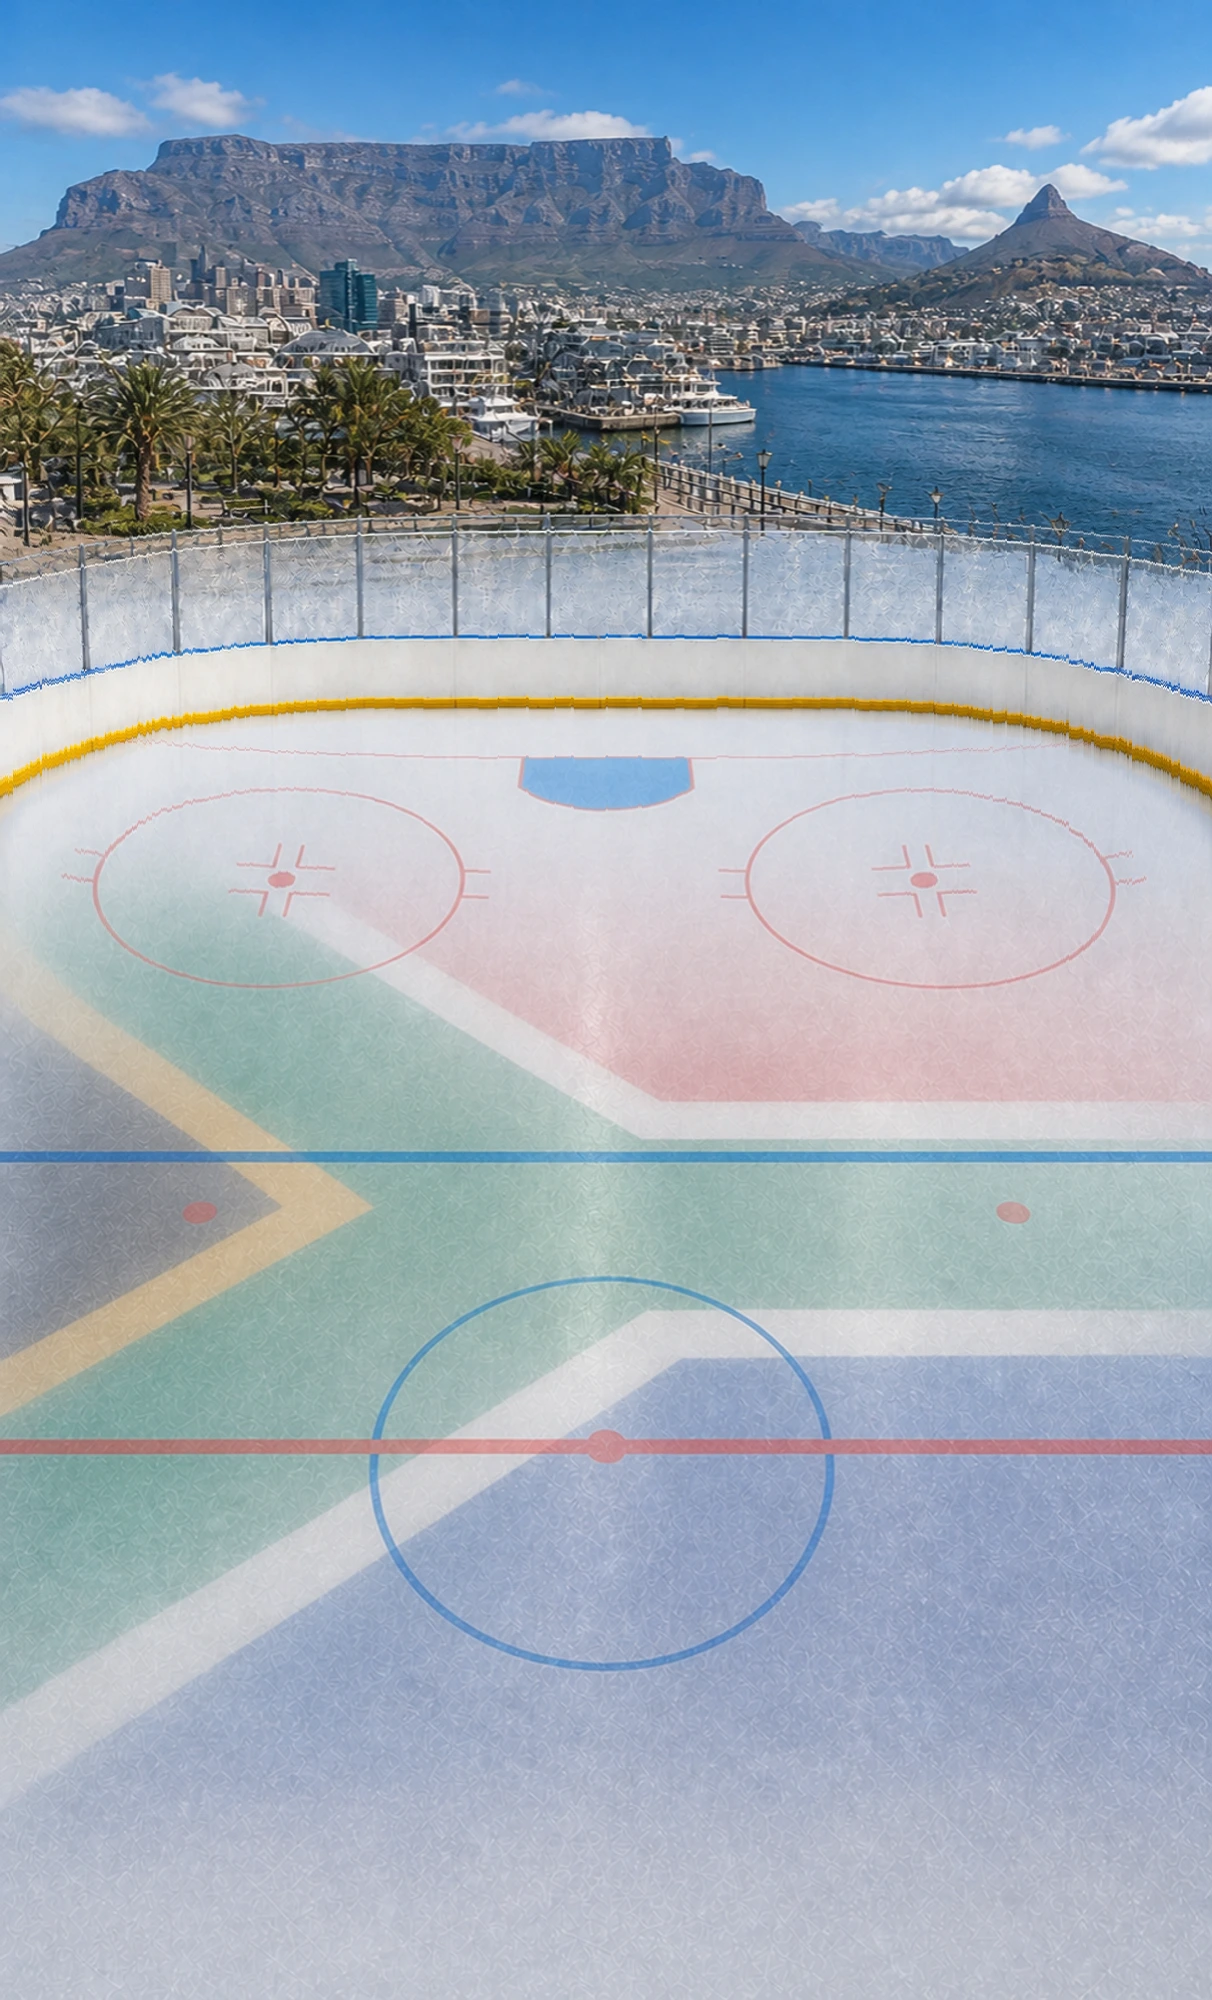
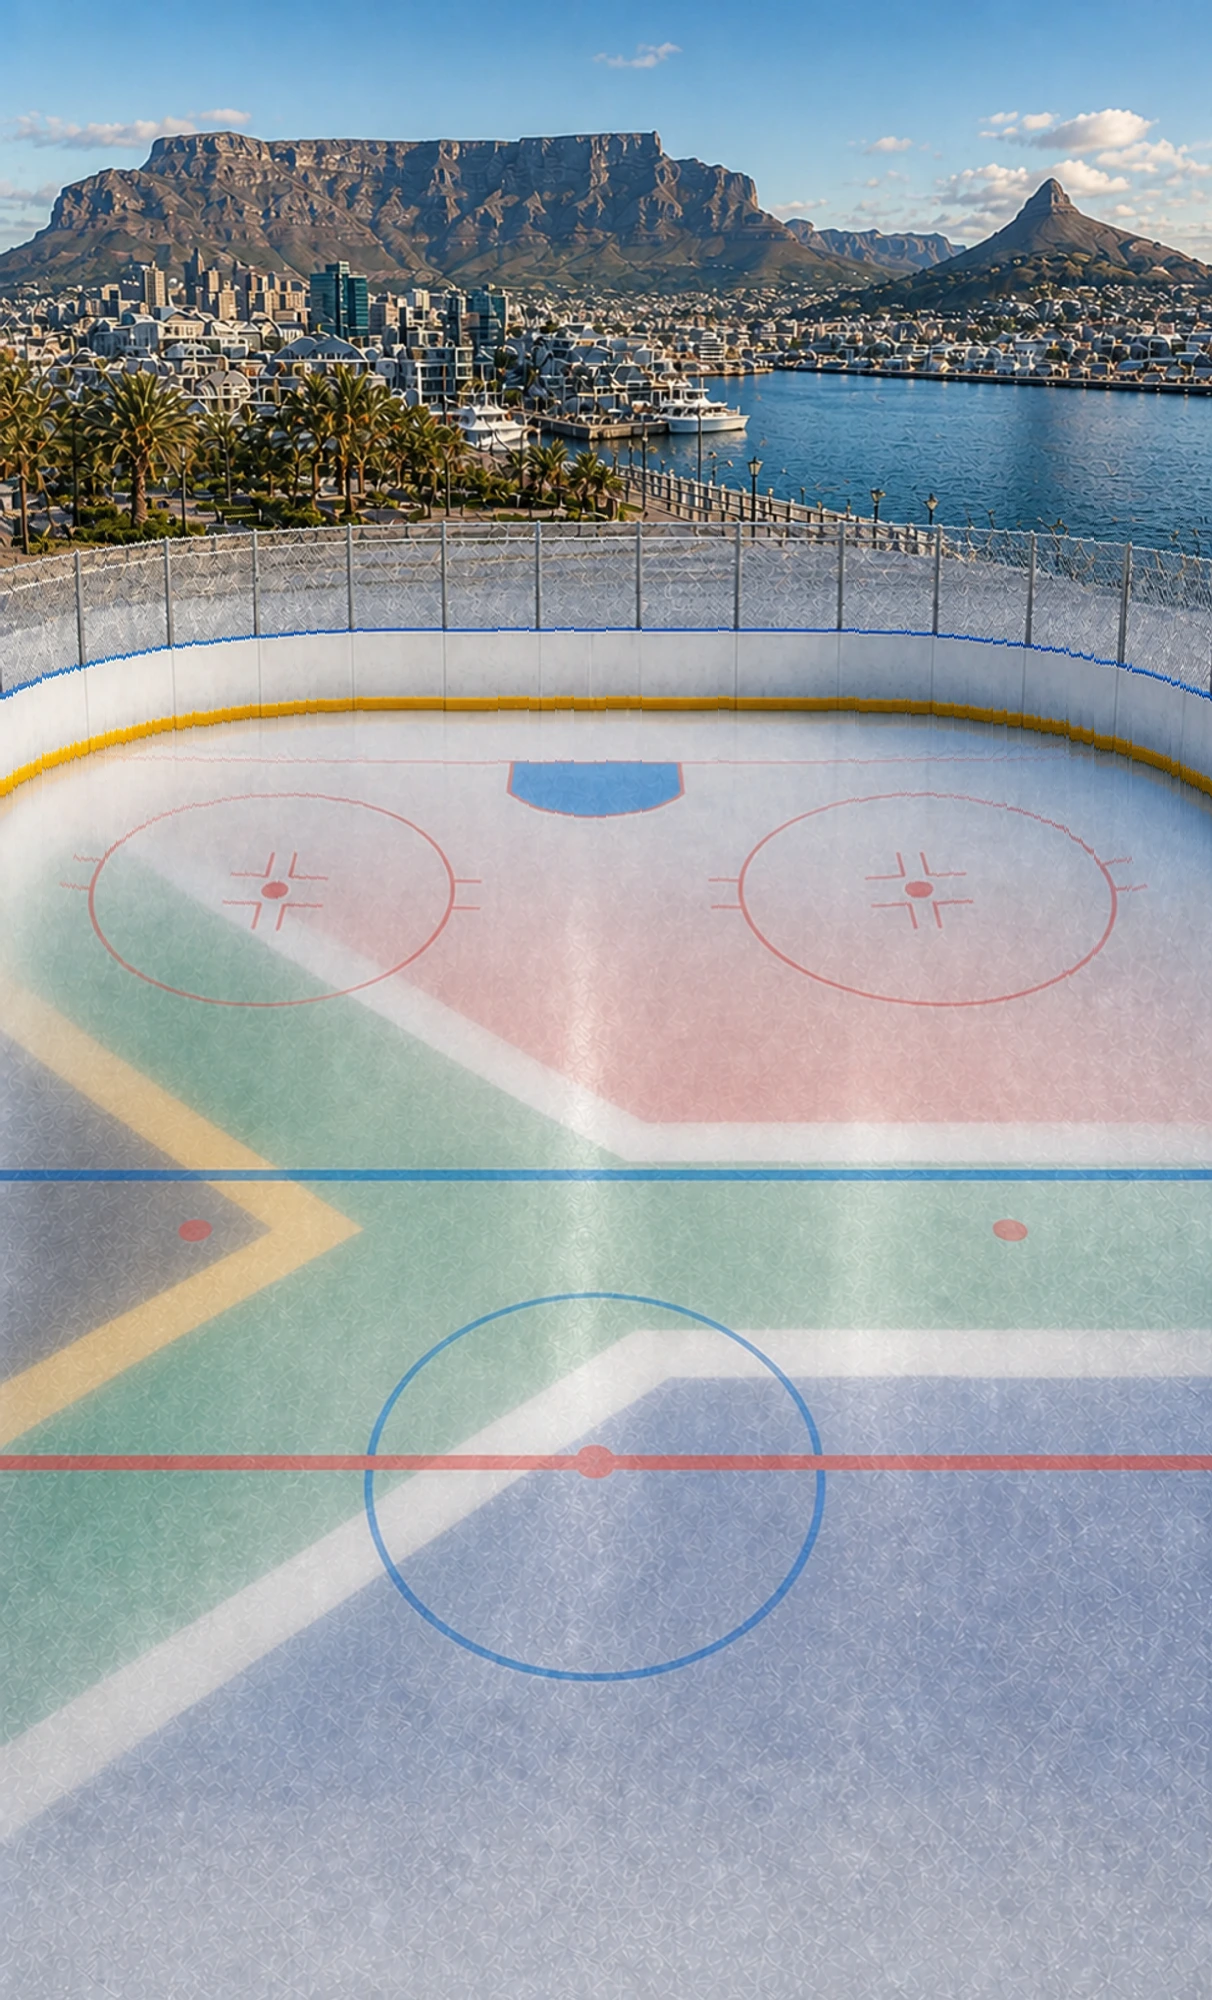
feat(bonus-games): regenerate World Tour arenas

diff --git a/packages/web/src/screens/BonusGamePlayScreen.test.tsx b/packages/web/src/screens/BonusGamePlayScreen.test.tsx
@@ -276,7 +276,7 @@ describe('BonusGamePlayScreen', () => {
     expect(screen.getByRole('heading', { name: 'Первая квалификация' })).toBeInTheDocument();
     expect(screen.getByRole('img', { name: 'Локация «Пляж» и её вратарь' })).toHaveAttribute(
       'src',
-      '/bonus-games/location-cards/beach.webp?v=20260828-world-tour-daily-board-v4',
+      '/bonus-games/location-cards/beach.webp?v=20260828-world-tour-regenerated-v5',
     );
     const qualification = screen.getByText('20 голов из 50 бросков');
     expect(qualification).toBeInTheDocument();
@@ -329,7 +329,7 @@ describe('BonusGamePlayScreen', () => {
 
     expect(screen.getByTestId('bonus-rink-background')).toHaveAttribute(
       'src',
-      '/bonus-games/arenas/beach.webp?v=20260828-world-tour-daily-board-v4',
+      '/bonus-games/arenas/beach.webp?v=20260828-world-tour-regenerated-v5',
     );
     const props = playViewProbe.mock.calls.at(-1)?.[0] as Record<string, unknown>;
     expect(props).toMatchObject({
@@ -339,7 +339,8 @@ describe('BonusGamePlayScreen', () => {
       goals: 18,
       shotsTotal: 25,
       stickEffects: STICK_NEUTRAL,
-      longCourtBackground: '/bonus-games/arenas/beach.webp?v=20260828-world-tour-daily-board-v4',
+      longCourtBackground:
+        '/bonus-games/arenas/beach.webp?v=20260828-world-tour-regenerated-v5',
       initialSceneElapsedMs: 6_000,
       initialShooterElapsedMs: 4_800,
       goalieOptions: {
@@ -363,7 +364,7 @@ describe('BonusGamePlayScreen', () => {
         goalFrequency: 0.5,
       },
       preloadAssets: [
-        '/bonus-games/arenas/beach.webp?v=20260828-world-tour-daily-board-v4',
+        '/bonus-games/arenas/beach.webp?v=20260828-world-tour-regenerated-v5',
         '/bonus-games/goalkeepers/beach-ready.webp',
         '/bonus-games/goalkeepers/beach-save.webp',
       ],

diff --git a/packages/web/src/screens/BonusGamesScreen.test.tsx b/packages/web/src/screens/BonusGamesScreen.test.tsx
@@ -452,7 +452,7 @@ describe('BonusGamesScreen', () => {
     const artwork = await screen.findByAltText('Площадка «Пляж»');
     expect(artwork).toHaveAttribute(
       'src',
-      '/bonus-games/arenas/beach.webp?v=20260828-world-tour-daily-board-v4',
+      '/bonus-games/arenas/beach.webp?v=20260828-world-tour-regenerated-v5',
     );
     expect(artwork).toHaveStyle({ objectPosition: 'center top' });
     expect(artwork.parentElement).toHaveClass('bonus-game-card__artwork-frame');
@@ -595,7 +595,7 @@ describe('BonusGamesScreen', () => {
 
     expect(await screen.findByAltText('Площадка «Пляж»')).toHaveAttribute(
       'src',
-      '/bonus-games/arenas/beach.webp?v=20260828-world-tour-daily-board-v4',
+      '/bonus-games/arenas/beach.webp?v=20260828-world-tour-regenerated-v5',
     );
   });
 

diff --git a/packages/web/src/game/bonusGameArtwork.ts b/packages/web/src/game/bonusGameArtwork.ts
@@ -1,4 +1,4 @@
-const BONUS_GAME_ARTWORK_VERSION = '20260828-world-tour-daily-board-v4';
+const BONUS_GAME_ARTWORK_VERSION = '20260828-world-tour-regenerated-v5';
 
 export function versionBonusGameArtwork(url: string): string {
   if (!url.startsWith('/bonus-games/') || url.includes('?')) return url;
